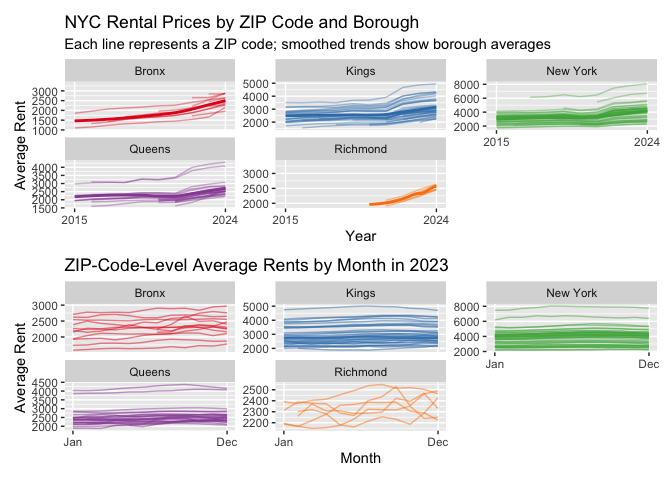
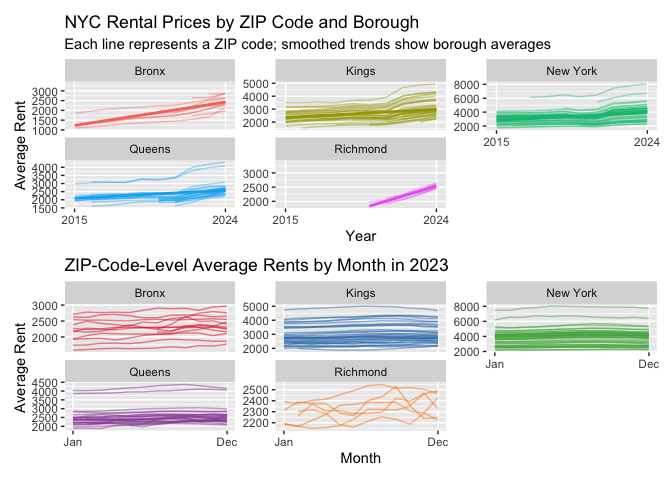
updating descriptions of visualizations

diff --git a/hw_3.md b/hw_3.md
@@ -184,7 +184,7 @@ knitr::kable(instacart |>
   pivot_wider(        
     names_from = order_dow, 
     values_from = mean_hour),
-  caption = "Mean hour of the day at which Pink Lady Apples and Coffee Ice Cream are ordered on each day of the week"
+  title = "Mean hour of the day at which Pink Lady Apples and Coffee Ice Cream are ordered on each day of the week."
 )
 ```
 
@@ -192,9 +192,6 @@ knitr::kable(instacart |>
 |:-----------------|-----:|-----:|-----:|-----:|-----:|-----:|-----:|
 | Coffee Ice Cream | 13.8 | 14.3 | 15.4 | 15.3 | 15.2 | 12.3 | 13.8 |
 | Pink Lady Apples | 13.4 | 11.4 | 11.7 | 14.2 | 11.6 | 12.8 | 11.9 |
-
-Mean hour of the day at which Pink Lady Apples and Coffee Ice Cream are
-ordered on each day of the week
 
 ## Problem 2
 
@@ -320,38 +317,33 @@ avg_rent = join_zillow_df |>
   separate(date,
     into = c("year", "month","day"), sep = "-") |> 
   group_by(county, year) |> 
-  summarize(average_rent = mean(rent_price)) |> 
+  summarize(average_rent = round(mean(rent_price),1), .groups = "drop") |> 
   pivot_wider(
     names_from = county,
     values_from = average_rent
   )
-```
 
-    ## `summarise()` has grouped output by 'county'. You can override using the
-    ## `.groups` argument.
-
-``` r
 knitr::kable(avg_rent)
 ```
 
-| year |    Bronx |    Kings | New York |   Queens | Richmond |
-|:-----|---------:|---------:|---------:|---------:|---------:|
-| 2015 | 1759.595 | 2492.928 | 3022.042 | 2214.707 |       NA |
-| 2016 | 1520.194 | 2520.357 | 3038.818 | 2271.955 |       NA |
-| 2017 | 1543.599 | 2545.828 | 3133.848 | 2263.303 |       NA |
-| 2018 | 1639.430 | 2547.291 | 3183.703 | 2291.918 |       NA |
-| 2019 | 1705.589 | 2630.504 | 3310.408 | 2387.816 |       NA |
-| 2020 | 1811.443 | 2555.051 | 3106.517 | 2315.632 | 1977.608 |
-| 2021 | 1857.777 | 2549.890 | 3136.632 | 2210.787 | 2045.430 |
-| 2022 | 2054.267 | 2868.199 | 3778.375 | 2406.038 | 2147.436 |
-| 2023 | 2285.459 | 3015.184 | 3932.610 | 2561.615 | 2332.934 |
-| 2024 | 2496.896 | 3126.803 | 4078.440 | 2694.022 | 2536.442 |
+| year |  Bronx |  Kings | New York | Queens | Richmond |
+|:-----|-------:|-------:|---------:|-------:|---------:|
+| 2015 | 1759.6 | 2492.9 |   3022.0 | 2214.7 |       NA |
+| 2016 | 1520.2 | 2520.4 |   3038.8 | 2272.0 |       NA |
+| 2017 | 1543.6 | 2545.8 |   3133.8 | 2263.3 |       NA |
+| 2018 | 1639.4 | 2547.3 |   3183.7 | 2291.9 |       NA |
+| 2019 | 1705.6 | 2630.5 |   3310.4 | 2387.8 |       NA |
+| 2020 | 1811.4 | 2555.1 |   3106.5 | 2315.6 |   1977.6 |
+| 2021 | 1857.8 | 2549.9 |   3136.6 | 2210.8 |   2045.4 |
+| 2022 | 2054.3 | 2868.2 |   3778.4 | 2406.0 |   2147.4 |
+| 2023 | 2285.5 | 3015.2 |   3932.6 | 2561.6 |   2332.9 |
+| 2024 | 2496.9 | 3126.8 |   4078.4 | 2694.0 |   2536.4 |
 
-In the Bronx, the rent was decreasing from 2015 to 2018. From 2019 to
-2024, the rent increases substantially. In Kings county, the rent
-increases substantially from 2021 to 2024.In New York, from 2021 to
-2022, the rent increases significantly. In Queens, from 2021 to 2024,
-the rent increases significantly.
+First, we can see that Richmond county does not have data from 2015 to
+2019. The most significant trend is the steep increase in rents across
+most boroughs from 2021 to 2024. From 2019 to 2020, we see that prices
+in boroughs like Manhattan, Brooklyn, and Queens dipped before
+increasing back in 2021, reflecting the market disruption around 2020.
 
 - Make a plot showing NYC Rental Prices within ZIP codes for all
   available years. Your plot should facilitate comparisons across
@@ -365,13 +357,12 @@ zip_avg = join_zillow_df |>
   group_by(county, zip_code, year) |> 
   summarize(mean_rent = mean(rent_price, na.rm = TRUE), .groups = "drop")
 
-#creating plot to compare across boroughs
-plot1 <- ggplot(zip_avg, aes(x = year, y = mean_rent, group = zip_code, color = county)) +
+#creating plot to compare rent across boroughs
+plot1 = ggplot(zip_avg, aes(x = year, y = mean_rent, group = zip_code, color = county)) +
   geom_line(alpha = 0.4) +
   theme(legend.position = "none") +
-  geom_smooth(aes(group = county, color = county), se = FALSE, size = 1.0) +
+  geom_smooth(aes(group = county, color = county), method = lm, se = FALSE, size = 1.0) +
   facet_wrap(~county, scales = "free_y") +
-  scale_color_brewer(palette = "Set1") +
   scale_x_discrete(breaks = c("2015", "2024")) +
   labs(
     title = "NYC Rental Prices by ZIP Code and Borough",
@@ -388,11 +379,21 @@ plot1 <- ggplot(zip_avg, aes(x = year, y = mean_rent, group = zip_code, color = 
     ## Call `lifecycle::last_lifecycle_warnings()` to see where this warning was
     ## generated.
 
-From this plot showing NYC rental prices within ZIP codes for all
-available years, we can see that in almost all the boroughs, starting in
-2021, the rent prices go through a steeper increase. Richmond county
-does not have data for the zip codes before 2020. New York has the
-highest rent prices.
+``` r
+plot1
+```
+
+    ## `geom_smooth()` using formula = 'y ~ x'
+
+![](hw_3_files/figure-gfm/unnamed-chunk-13-1.png)<!-- -->
+
+Some significant elements of this plot are that in Manhattan and
+Brooklyn, the spread of the rent prices across zip codes is large. In
+Manhattan, some ZIP codes have average rents approaching \$8,000, while
+others are closer to \$4,000. On the other hand, the lines for the
+Bronx, Queens, and Richmond are more close around their average trend
+lines. While there is still variation, the difference between the most
+and least expensice neighborhoods are significantly smaller.
 
 Compute the average rental price within each ZIP code over each month in
 2023. Make a reader-friendly plot showing the distribution of
@@ -424,7 +425,7 @@ rent_2023 = join_zillow_df |>
   ) |> 
   mutate(month = factor(month, levels = month.abb, ordered = TRUE))
 
-
+#creating plot showing zip code average rent for each month in 2023
 plot2 <- ggplot(rent_2023, aes(x = month, y = avg_monthly_rent, 
                       group = zip_code, color = county )) +
   geom_line(alpha = 0.5) +
@@ -438,7 +439,11 @@ plot2 <- ggplot(rent_2023, aes(x = month, y = avg_monthly_rent,
     y = "Average Rent",
     color = "Borough"
   )
+
+plot2
 ```
+
+![](hw_3_files/figure-gfm/unnamed-chunk-14-1.png)<!-- -->
 
 From this plot showing average NYC rental prices each month in 2023
 across boroughs, we can see that Kings and New York county have more
@@ -452,19 +457,7 @@ combined_plot <- plot1/plot2
 combined_plot
 ```
 
-    ## `geom_smooth()` using method = 'loess' and formula = 'y ~ x'
-
-    ## Warning in simpleLoess(y, x, w, span, degree = degree, parametric = parametric,
-    ## : pseudoinverse used at 10.02
-
-    ## Warning in simpleLoess(y, x, w, span, degree = degree, parametric = parametric,
-    ## : neighborhood radius 2.02
-
-    ## Warning in simpleLoess(y, x, w, span, degree = degree, parametric = parametric,
-    ## : reciprocal condition number 0
-
-    ## Warning in simpleLoess(y, x, w, span, degree = degree, parametric = parametric,
-    ## : There are other near singularities as well. 1
+    ## `geom_smooth()` using formula = 'y ~ x'
 
 ![](hw_3_files/figure-gfm/unnamed-chunk-15-1.png)<!-- -->
 
@@ -479,19 +472,7 @@ ggsave(
 ```
 
     ## Saving 7 x 5 in image
-    ## `geom_smooth()` using method = 'loess' and formula = 'y ~ x'
-
-    ## Warning in simpleLoess(y, x, w, span, degree = degree, parametric = parametric,
-    ## : pseudoinverse used at 10.02
-
-    ## Warning in simpleLoess(y, x, w, span, degree = degree, parametric = parametric,
-    ## : neighborhood radius 2.02
-
-    ## Warning in simpleLoess(y, x, w, span, degree = degree, parametric = parametric,
-    ## : reciprocal condition number 0
-
-    ## Warning in simpleLoess(y, x, w, span, degree = degree, parametric = parametric,
-    ## : There are other near singularities as well. 1
+    ## `geom_smooth()` using formula = 'y ~ x'
 
 ## Problem 3
 
@@ -579,7 +560,7 @@ sex_educ =
              3 ~ "More than High School"
            ))
 
-knitr::kable(sex_educ, caption = "Number of Participants by Education Level and Sex")
+knitr::kable(sex_educ, title = "Number of Participants by Education Level and Sex")
 ```
 
 | education              | female | male |
@@ -587,8 +568,6 @@ knitr::kable(sex_educ, caption = "Number of Participants by Education Level and 
 | Less than High School  |     28 |   27 |
 | High School Equivalent |     23 |   35 |
 | More than High School  |     59 |   56 |
-
-Number of Participants by Education Level and Sex
 
 There are more males than females who have a high school equivalent
 education. The number of females who’ve done less than high school is
